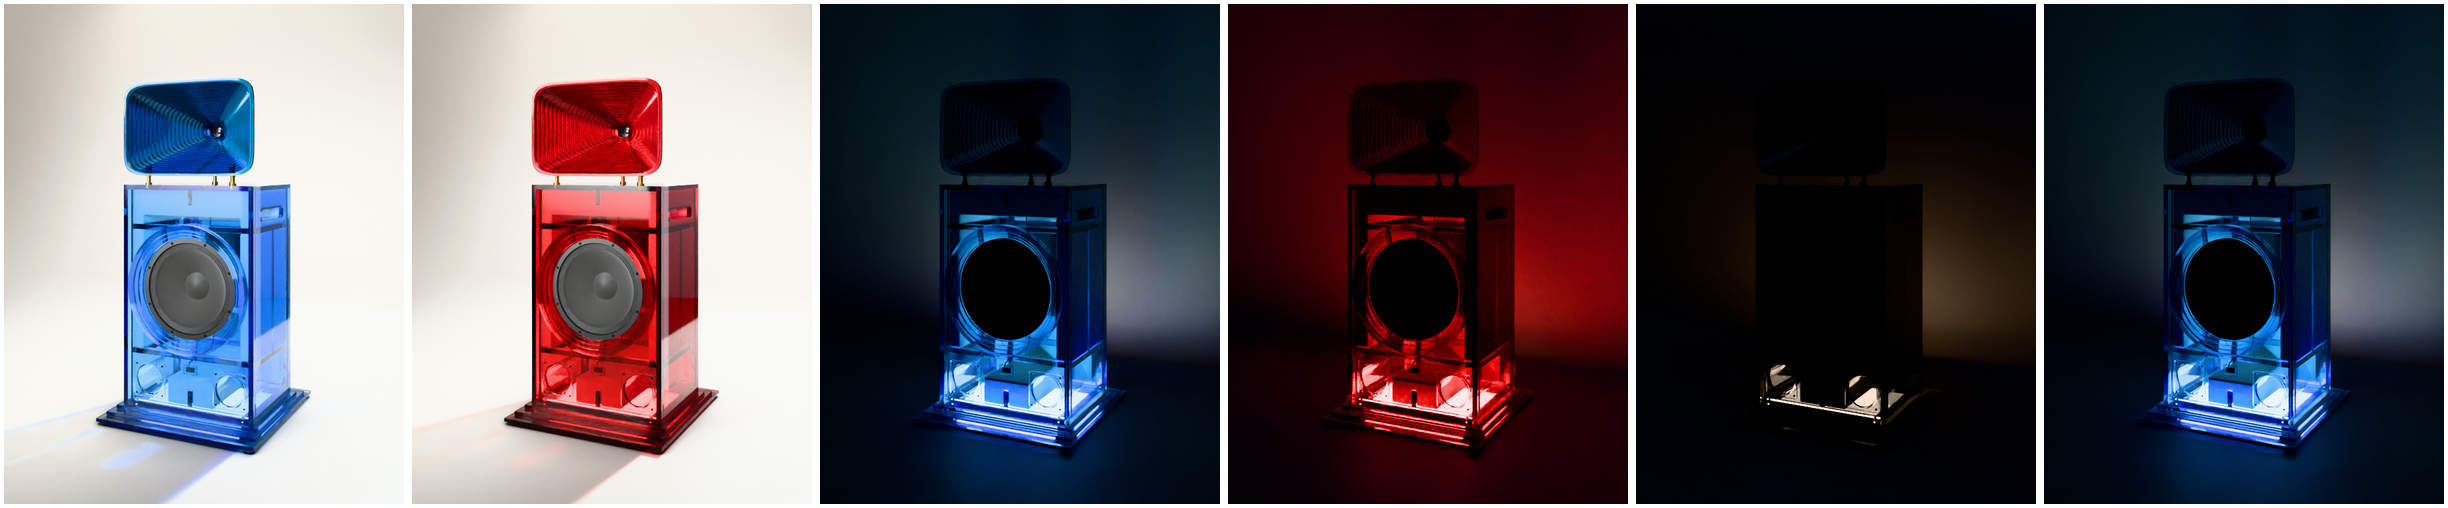
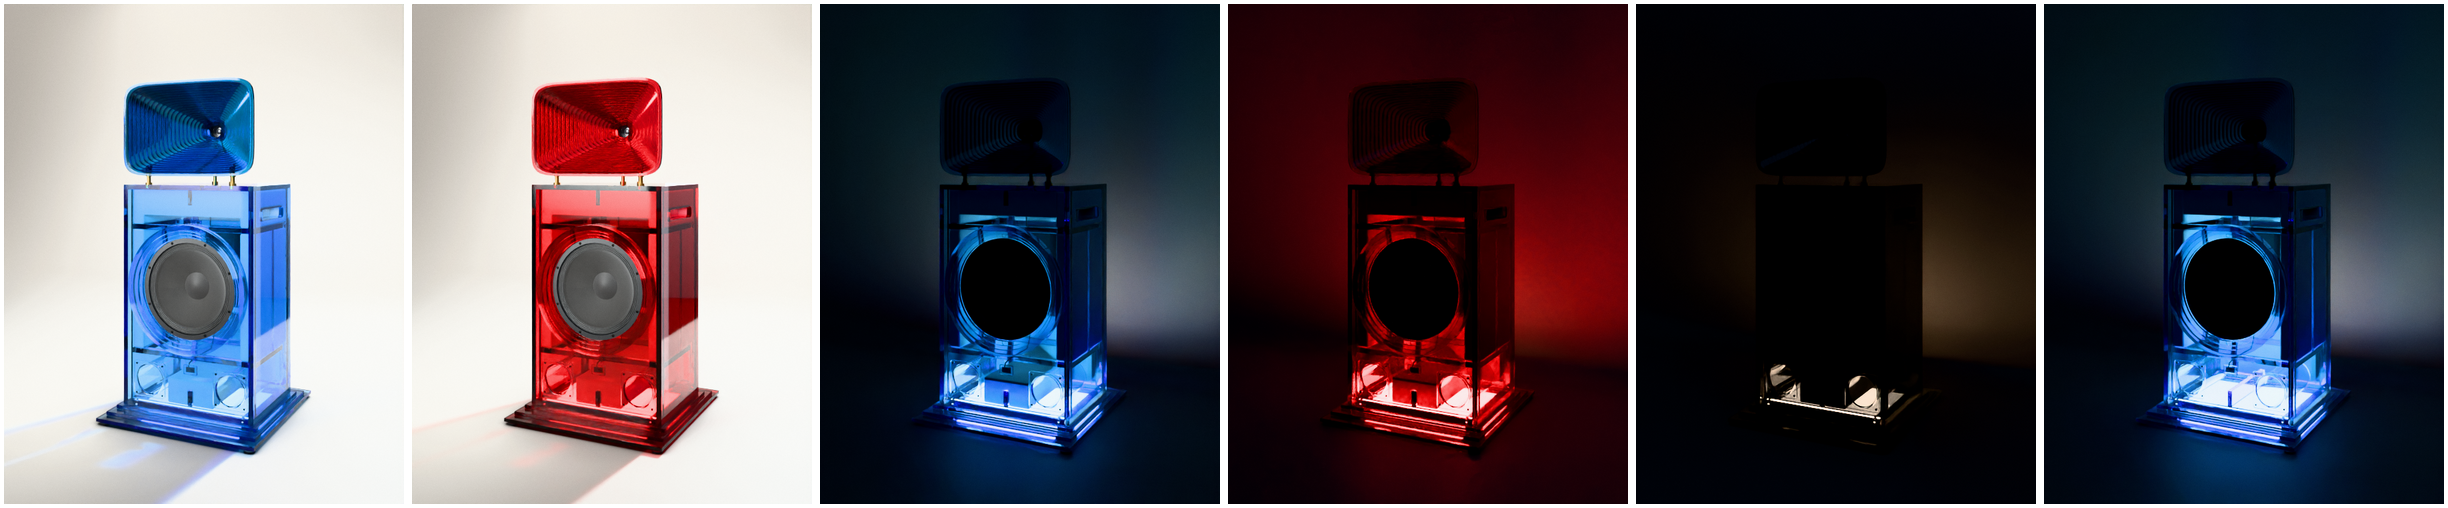
Tropos uplight: adopted, the base uplight with the bottom-batt window; the wash not adopted; the first sheet regenerated from the fixed window frame
Claude-Session: https://claude.ai/code/session_01CsZ9sPVytkpnrfV4BgTgfB

Changed region(s): [[0.8693, 0.5906, 0.9624, 0.7972], [0.8693, 0.4134, 0.9314, 0.5315]]

diff --git a/spinoffs/barkhorn/variants/BASES.md b/spinoffs/barkhorn/variants/BASES.md
@@ -85,6 +85,8 @@ It lifts the cabinet 20 mm.
 - **What it does:** the bottom bay and the lower cabinet get brighter, and the cabinet a little more evenly lit. The wall changes little. A real but small gain.
 - **What it costs acoustically:** **no bass**. The batts do not set the box's tuning, and the bottom batt is about 6 L of a 164 L box, so the port's tuning moves well under 1 Hz. It does weaken the damping of the cabinet's vertical standing wave, about 210 Hz for the 0.82 m inside height. The 100 mm top batt stays and damps the same mode at the other end. Expect at most a 1 to 2 dB ripple near 210 Hz, to measure on the first sample before the window is adopted. If it rings, a voile-only panel keeps the look with the batt back.
 
+**Adopted (the coordinator, 2026-11-03): the base uplight with the bottom-batt window.** The window is the bottom batt cut back to a frame round the centre panel's light. **Measure the ripple near 210 Hz on the first sample** before it ships; if it rings, the batt goes back whole. (The Cloud's CAD, `cloud.py`, still carries the whole bottom batt until that measurement.)
+
 **Against the underlit promo images** (`like/`, the uplit set's own stage, camera, moon, haze and exposure, only the plinth's own light at full; `like/sheet-like.png`: the uplit frame, then base, window and wash, Ice on top and Ember below):
 - **The base uplight lights the whole cabinet**, top to bottom, in its own colour, deeper than the promo's near-white interior.
 - **The promo's tall V up the wall is out of reach.** Its lamp put about 135 W of light under the speaker; the plinth's uplight gives about 10 W of light at full (34 W electrical). The wall here gets a shorter, dimmer fan: close in Ember, paler in Ice.
@@ -92,7 +94,7 @@ It lifts the cabinet 20 mm.
 - **The cabinet wash** (below) adds a brighter inside and a stronger glow at the ports and walls, and a little more on the wall.
 - **Closest to the promo look for the least change:** the base uplight with the bottom-batt window. No parts, and its glow already fills the cabinet. The next step toward the promo's wall is more light from the centre panel (a 40 W board in place of the 16 W one), not the wash.
 
-**The cabinet wash** (a proposal for the owner; `WASH` in `variants.py`, option "Cabinet wash", `cabinet-wash` in `components.json`):
+**The cabinet wash: not adopted** (the coordinator, 2026-11-03: it adds glow inside but not on the wall, puts 11 W into the box, and needs a connector through the bottom; kept in the CAD as an option; `WASH` in `variants.py`, option "Cabinet wash", `cabinet-wash` in `components.json`):
 - **What it is:** COB strips, 24 V, 10 W/m, 4000 K, 1.06 m a speaker, bonded to the bottom panel inside the cabinet at the foot of each side wall and of the front panel, between the wall and its lining, aimed up the wall. The back is left out (its land strip and the amplifier's compartment).
 - **How it is fed:** from the plinth's 24 V through a sealed, potted 2-pin connector in the bottom panel at a foot pad, mating with a spring contact in the plinth's top frame. The cabinet still lifts off its plinth with nothing to unplug.
 - **Cost:** about $60 a speaker (the strip $34, the connector and the spring contact about $15, fitting).
